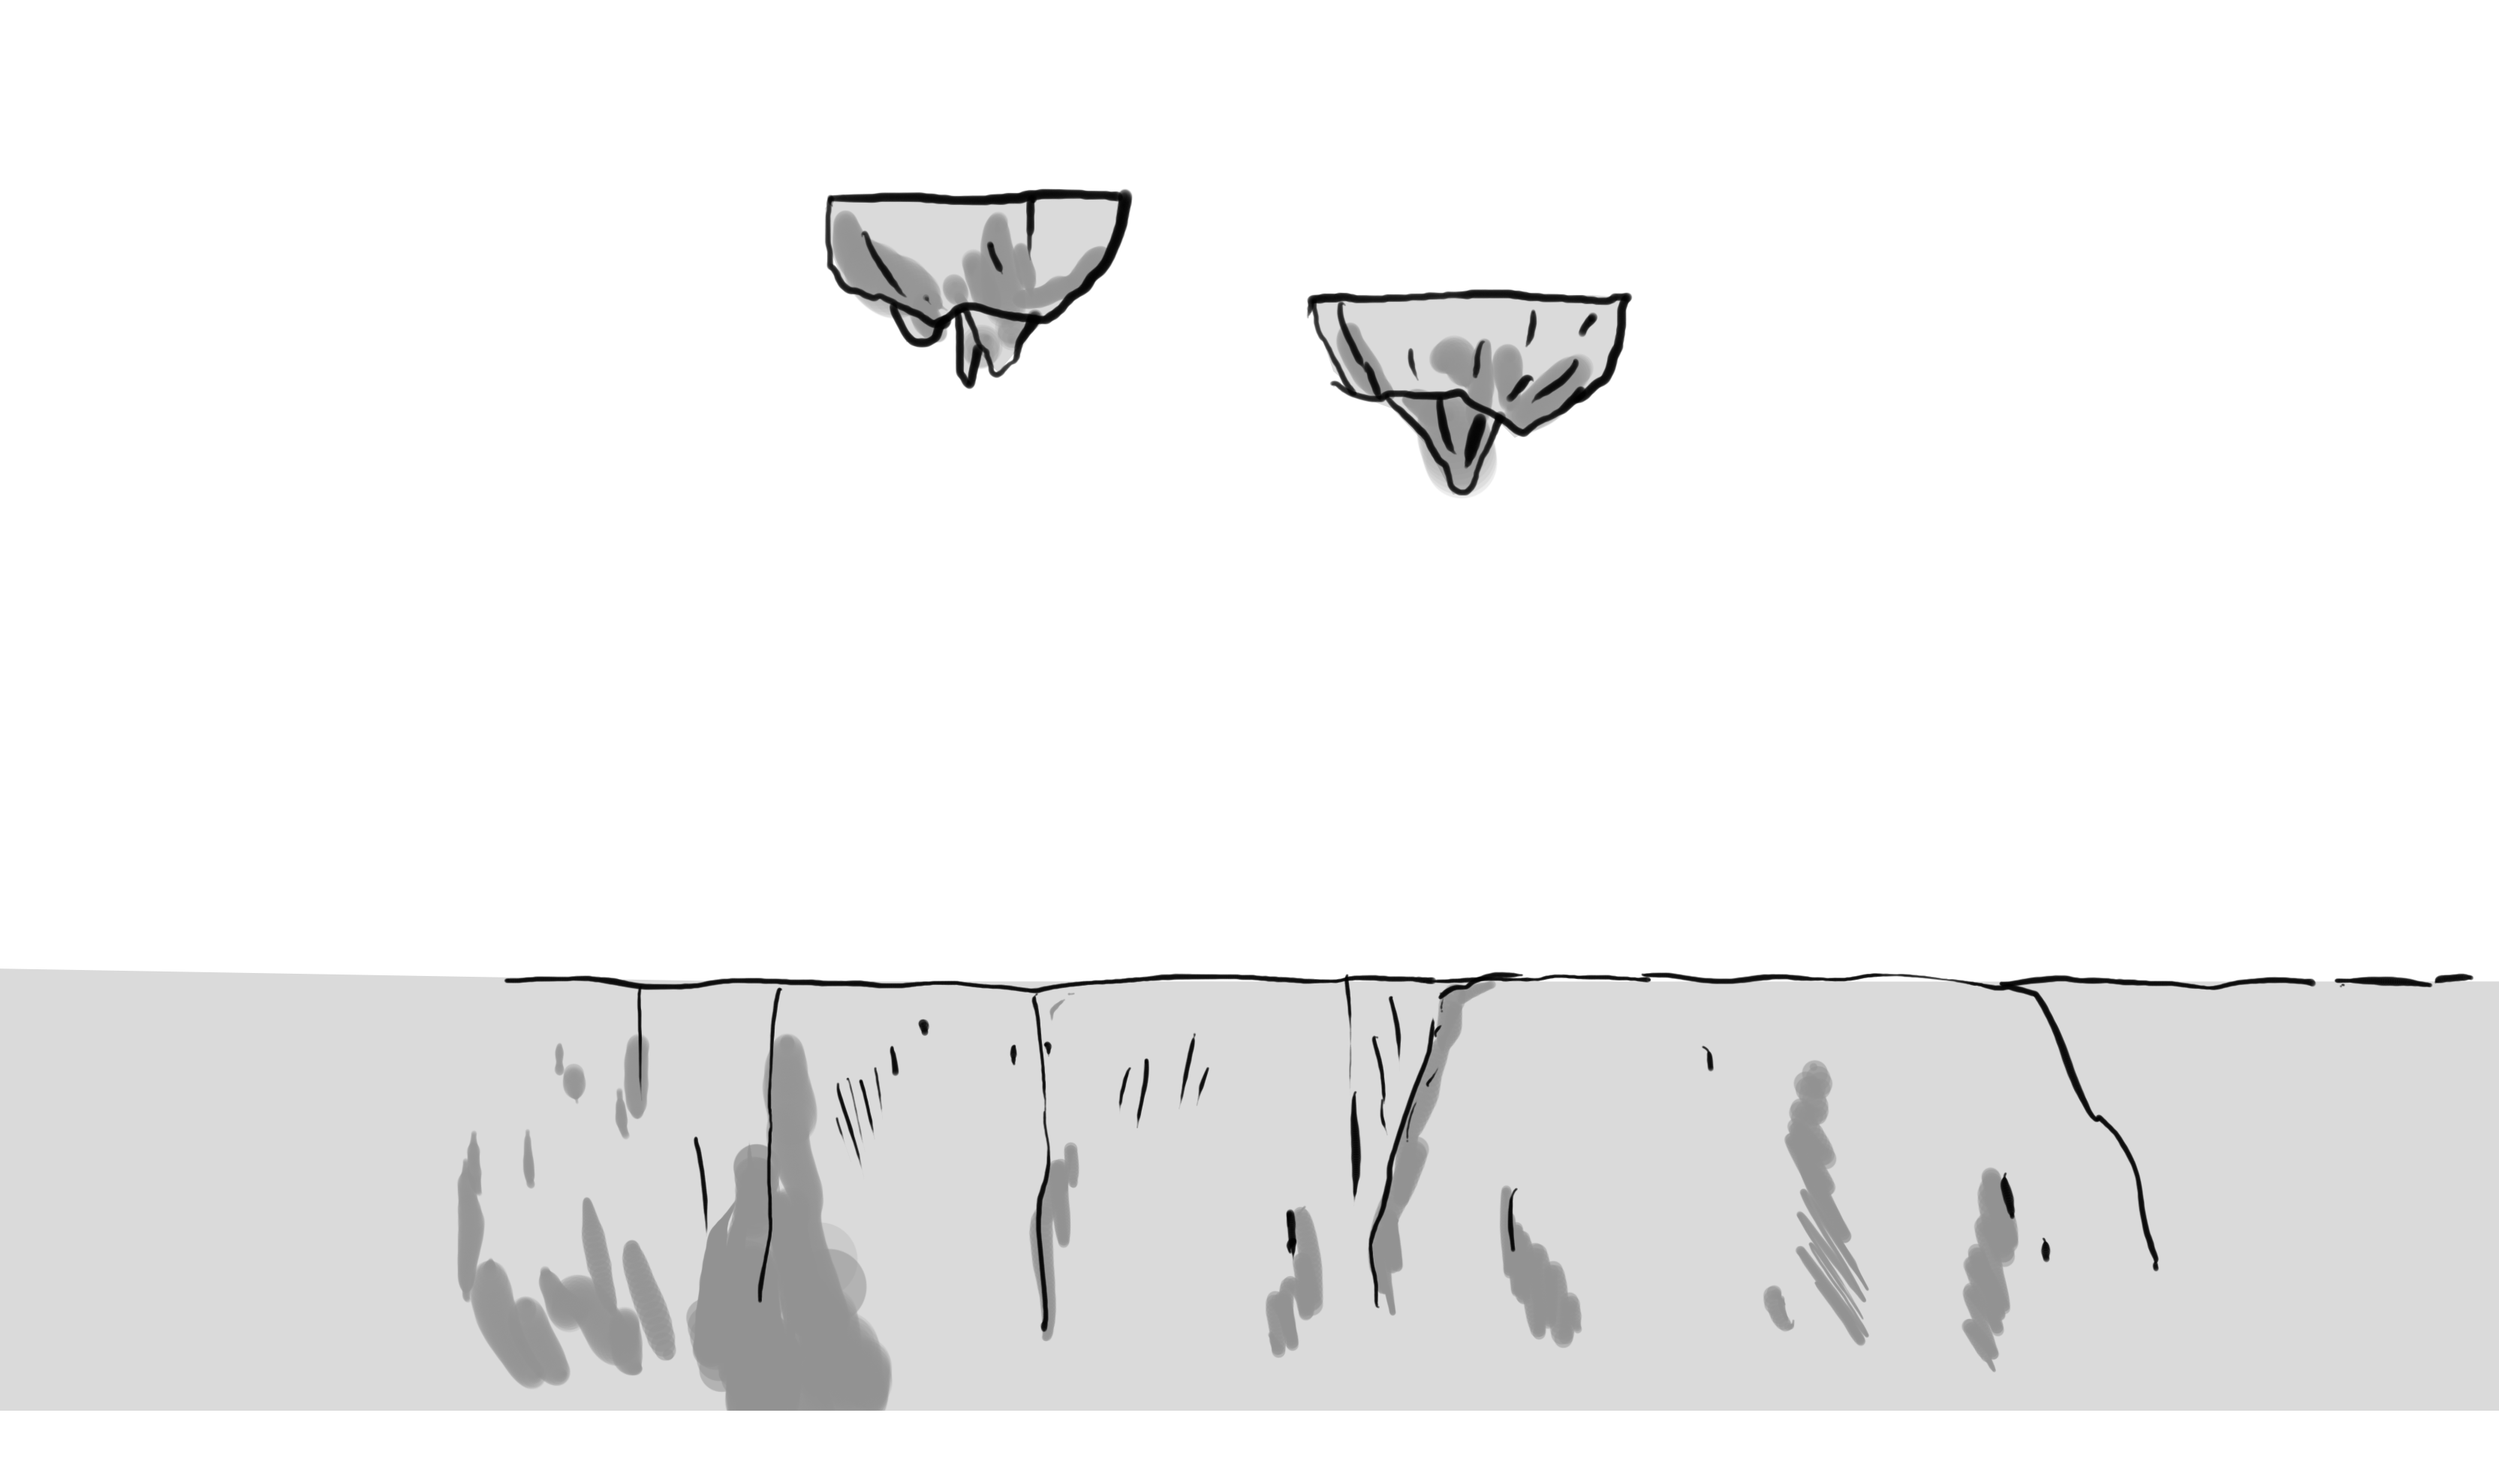
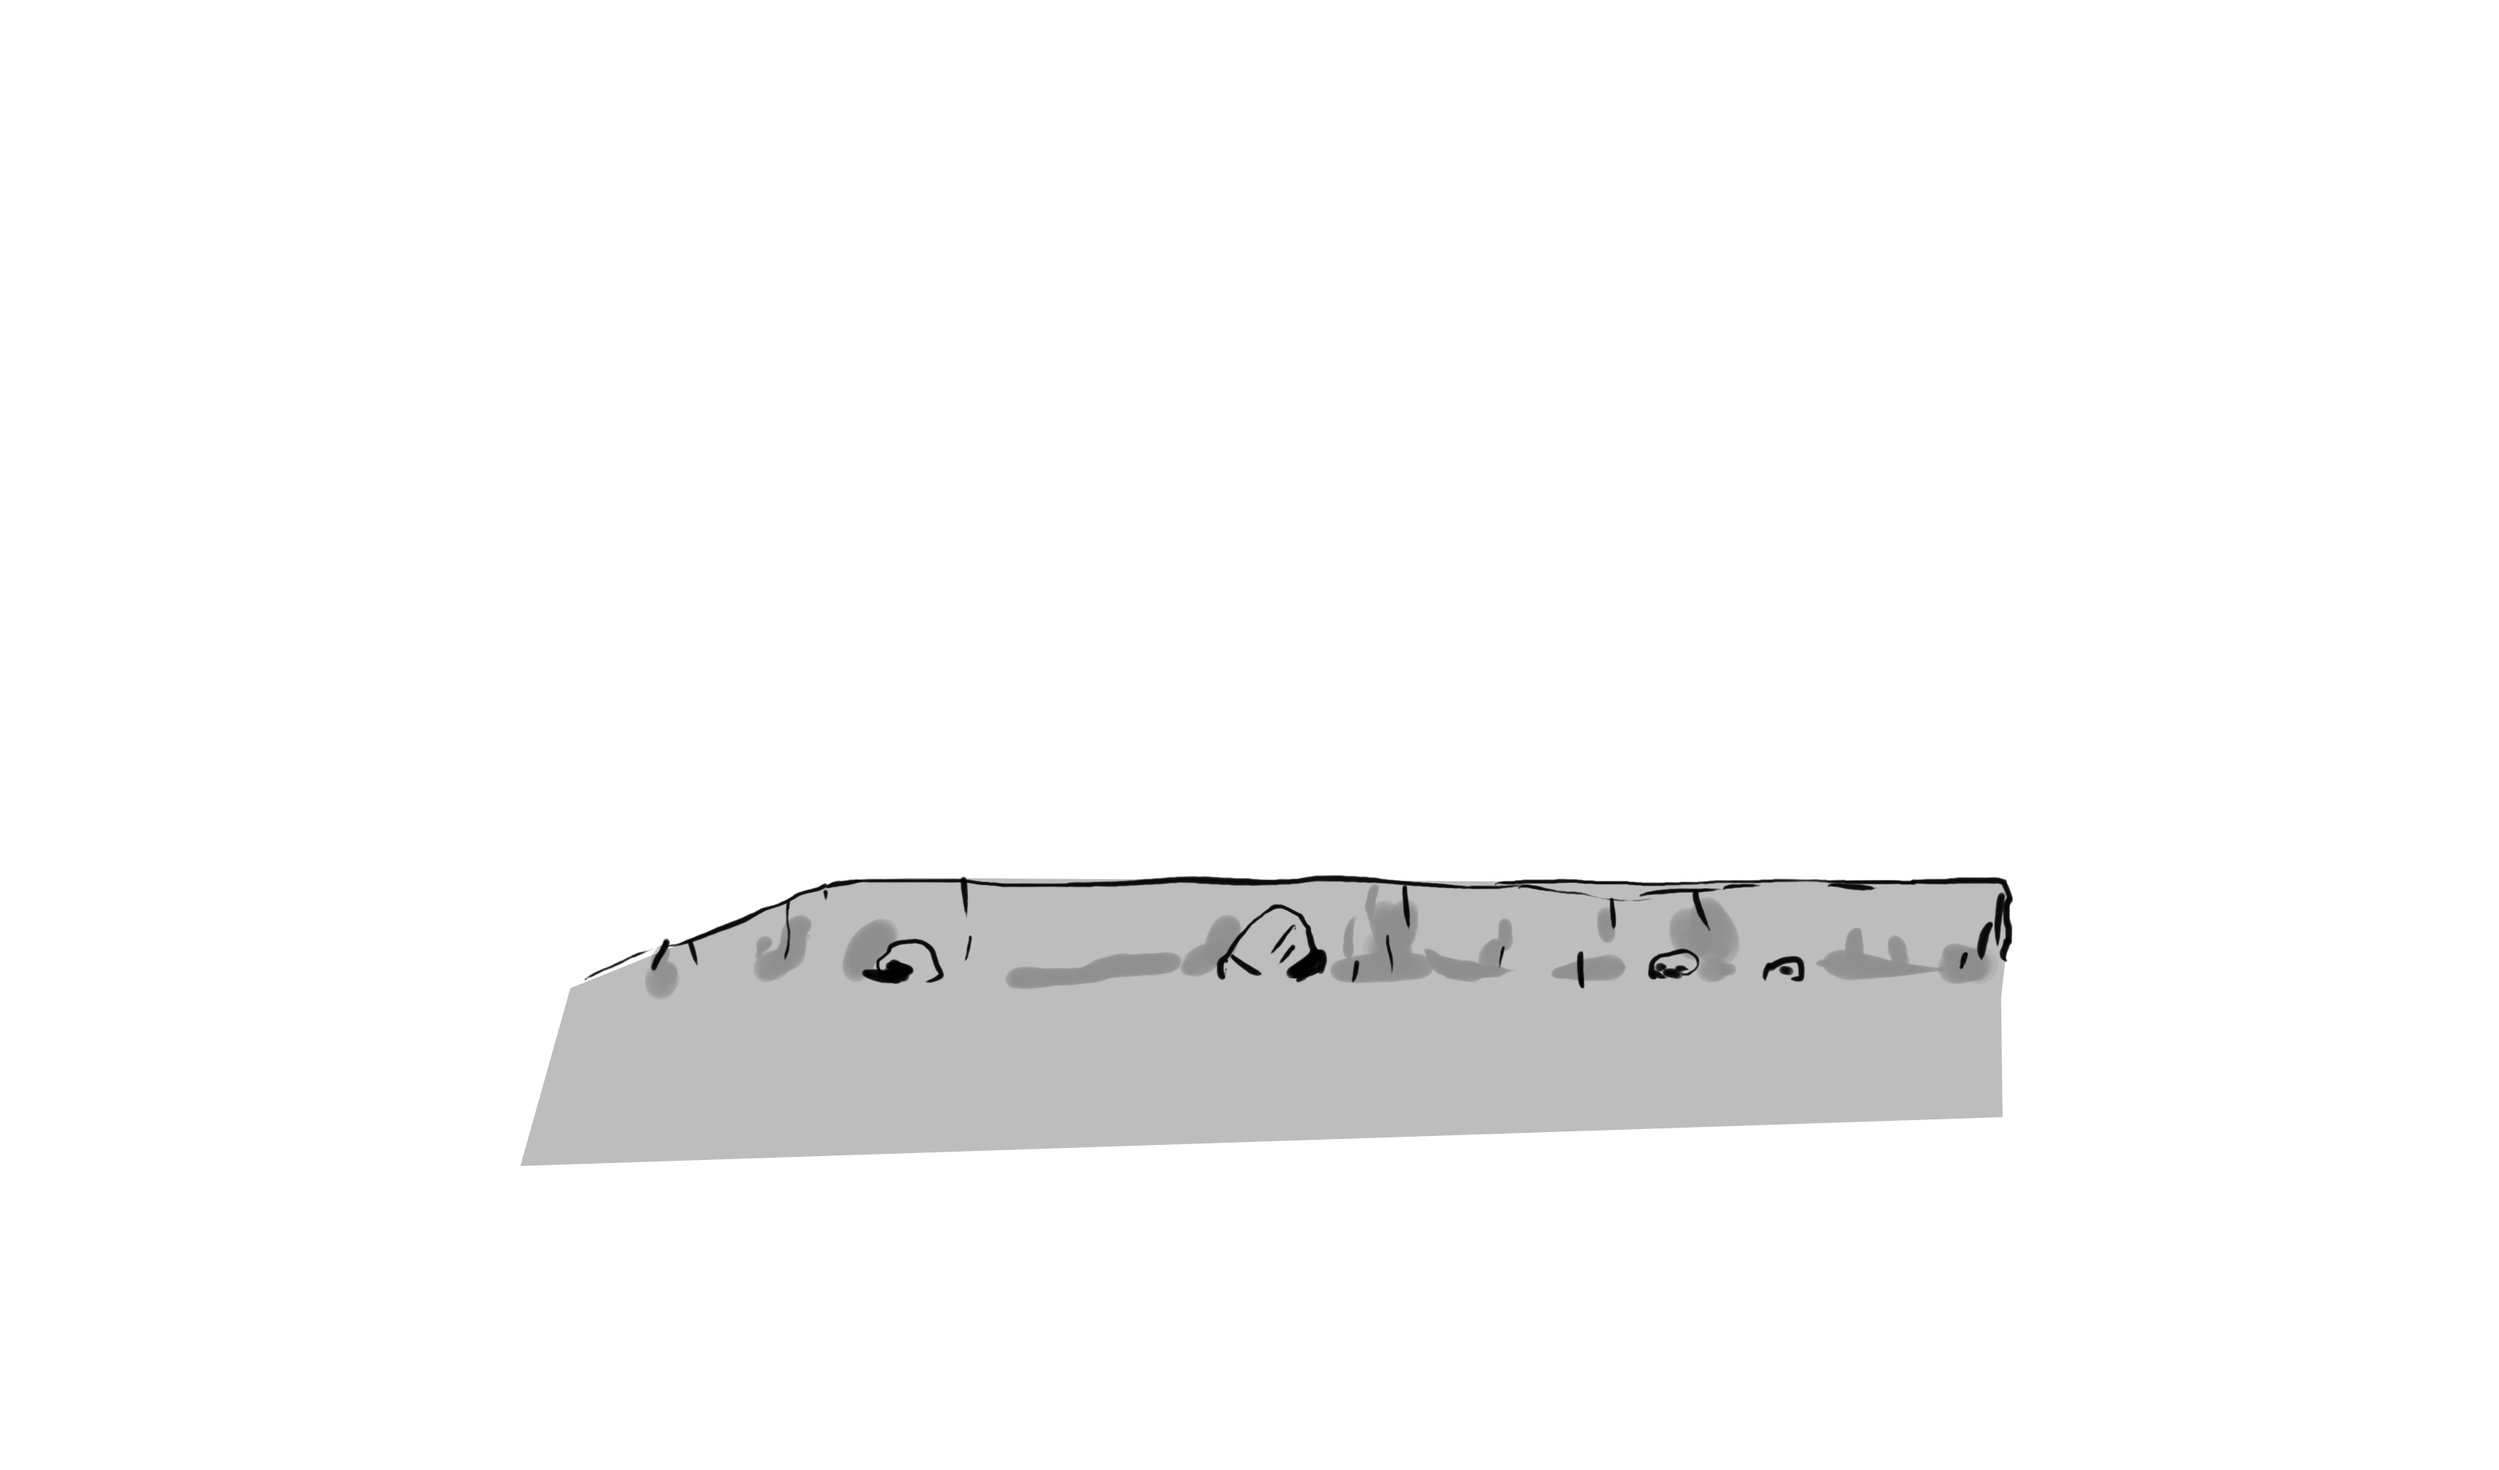
better parallax, better demo

diff --git a/Assets/Scripts/Misc/LevelPlaneOrganizer.cs b/Assets/Scripts/Misc/LevelPlaneOrganizer.cs
@@ -1,0 +1,67 @@
+using System.Text.RegularExpressions;
+using UnityEngine;
+using System.Linq;
+
+
+#if UNITY_EDITOR
+using UnityEditor;
+#endif
+
+[ExecuteAlways, Tooltip("Organizes the children of the game object by their name and adds a plane component to them. The plane component allows to define the \"depth\" of the associated plane.")]
+public class LevelPlaneOrganizer : MonoBehaviour
+{
+    public class Plane : MonoBehaviour
+    {
+        [Range(-5, 5)]
+        public int index = 0;
+    }
+
+    public float zOffset = -0.1f;
+
+    void OnEnable()
+    {
+        if (Application.isPlaying)
+        {
+            Destroy(this);
+        }
+    }
+
+    void Update()
+    {
+        foreach (Transform child in transform)
+        {
+            if (child.TryGetComponent<Plane>(out var plane) == false)
+            {
+                plane = child.gameObject.AddComponent<Plane>();
+                var regex = new Regex(@"\d+$");
+                var match = regex.Match(child.name);
+                if (match.Success)
+                    plane.index = int.Parse(match.Value);
+            }
+
+            var (x, y, _) = child.position;
+            child.position = new Vector3(x, y, plane.index + zOffset);
+        }
+    }
+
+#if UNITY_EDITOR
+    [CustomEditor(typeof(LevelPlaneOrganizer))]
+    public class AvatarEditor : Editor
+    {
+        LevelPlaneOrganizer Target =>
+            (LevelPlaneOrganizer)target;
+
+        public override void OnInspectorGUI()
+        {
+            var attributes = typeof(LevelPlaneOrganizer).GetCustomAttributes(typeof(TooltipAttribute), false)
+                .Cast<TooltipAttribute>()
+                .ToArray();
+
+            if (attributes.Length > 0)
+                EditorGUILayout.HelpBox(string.Join("\n", attributes.Select(a => a.tooltip)), MessageType.Info);
+
+            base.OnInspectorGUI();
+        }
+#endif
+    }
+}
